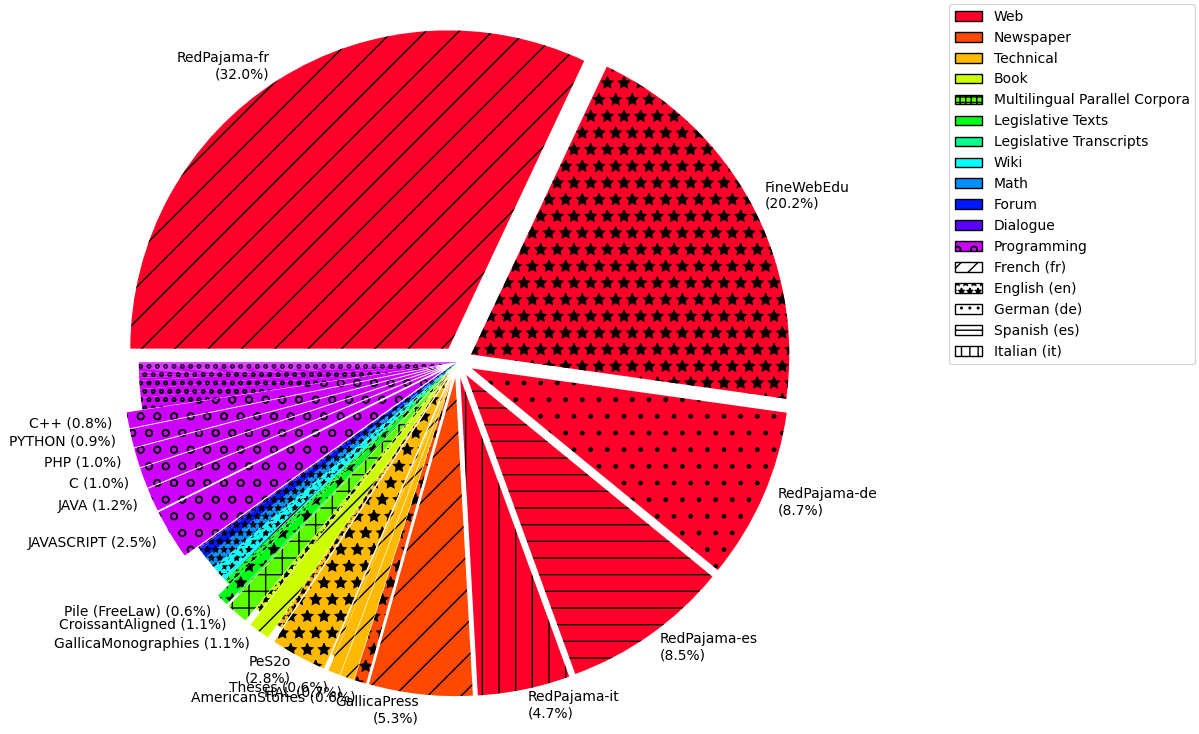
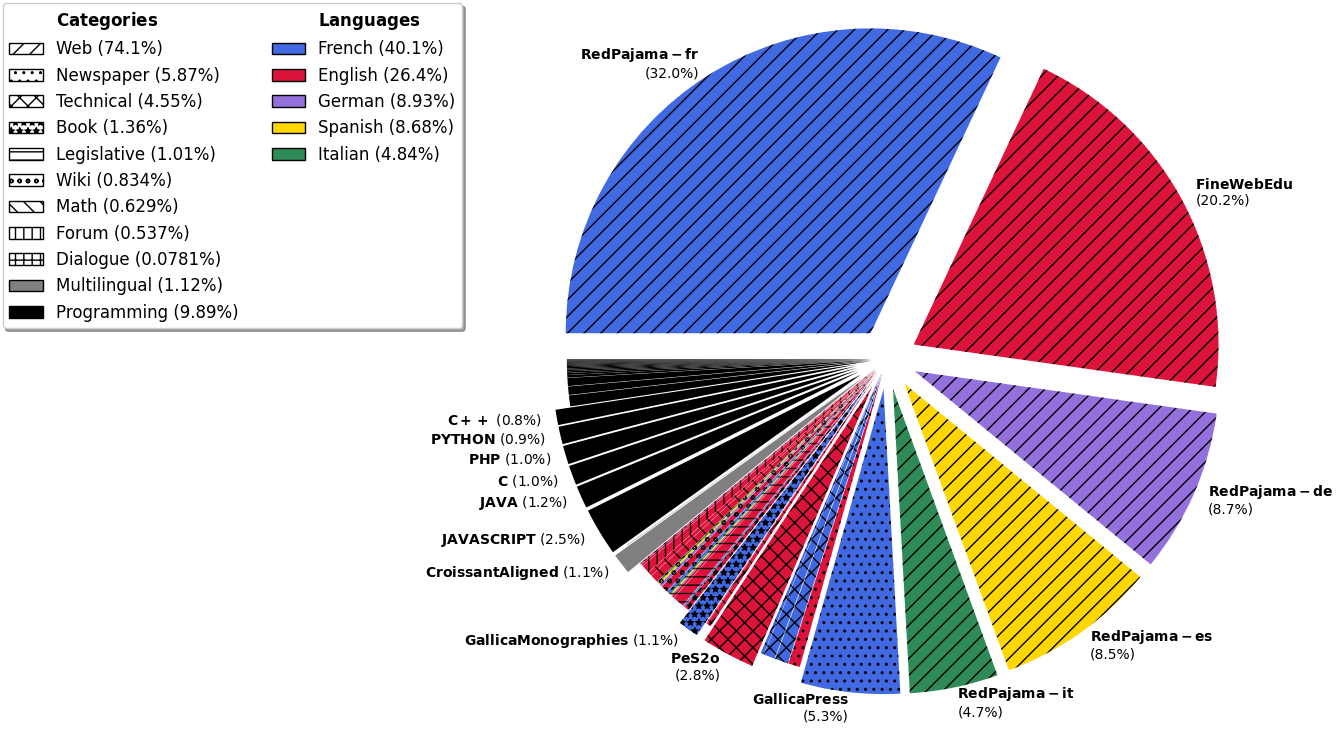
Improve pie chart of dataset composition

diff --git a/assets/hugging_face/generate_dataset_table.py b/assets/hugging_face/generate_dataset_table.py
@@ -12,6 +12,8 @@ _parent_folder = os.path.dirname(os.path.dirname(os.path.dirname(os.path.realpat
 _stats_filename = os.path.join(_parent_folder, "assets", "stats_datasets.csv")
 _stats_filename_detailed = os.path.join(_parent_folder, "assets", "stats_datasets_detailed.csv")
 
+USE_HATCH_FOR_CATEGORIES = True
+
 _web_datasets = ["RedPajama", "FineWebEdu"]
 
 _meta_datasets = [
@@ -467,12 +469,14 @@ if __name__ == "__main__":
 
     def key_category(category, df):
         if "code" in category.lower() or "programming" in category.lower():
+            return 1
+        if "multilingual" in category.lower():
             return 0
         num_tokens = df[df["category"] == category]["B tokens"].sum()
         if category.startswith("Legislative"):
             num_tokens = sum(
                 df[df["category"] == subcat]["B tokens"].sum()
-                for subcat in ["Legislative Texts", "Legislative Transcripts"]
+                for subcat in ["Legislative Texts", "Legislative Transcripts", "Legislative"]
             )
         else:
             num_tokens = df[df["category"] == category]["B tokens"].sum()
@@ -524,17 +528,10 @@ if __name__ == "__main__":
     if True:
         # Plot pie
 
-        def more_dense_hatch(hatch):
-            if hatch in ["o"]:
-                return hatch
-            if hatch in ["-", "+"]:
-                return hatch * 3
-            return hatch * 2
-
         def format_percentage(pct):
             return f"{pct:.1f}%" if pct > min_percent_for_label else ""
 
-        hatch_styles = {
+        map_hatch = {
             "fr": "/",
             "en": "*",
             "de": ".",
@@ -542,14 +539,42 @@ if __name__ == "__main__":
             "it": "|",
             "code": "o",
             "parallel": "+",
+            "Multilingual Parallel Corpora": "",
+            "Programming": "",
+            "Web": "/",
+            "Newspaper": ".",
+            "Technical": "x",
+            "Book": "*",
+            "Legislative": "-",
+            "Legislative Texts": "-",
+            "Legislative Transcripts": "-",
+            "Wiki": "o",
+            "Math": "\\",
+            "Forum": "|",
+            "Dialogue": "+",
         }
 
-        min_percent_for_label = 0.6
+        map_colors = {
+            "fr": "royalblue",  # "mediumblue", # "blue",
+            "en": "crimson",  # "red",
+            "de": "mediumpurple",  # "purple",
+            "es": "gold",  # "orange",
+            "it": "seagreen",  # "olive", # "green",
+            "code": "black",  # "gray",
+            "parallel": "gray",  # "pink",
+        }
+
+        min_percent_for_label = 0.8
 
         categories = [c for c in categories if c]
         categories = sorted(categories, key=lambda x: key_category(x, df))
+        for i, c in enumerate(categories):
+            if c.startswith("Legislative"):
+                categories[i] = "Legislative"
+        categories = list(dict.fromkeys(categories))  # Remove duplicates without resorting
         num_colors = len(categories)
         rainbow_colors = [plt.cm.gist_rainbow(i / num_colors) for i in range(num_colors)]
+        languages = [k for k in map_colors.keys() if len(k) == 2]
         # rainbow_colors_1 = rainbow_colors[: len(rainbow_colors) // 2]
         # rainbow_colors_2 = rainbow_colors[len(rainbow_colors) // 2 :]
         # rainbow_colors = [color for pair in zip(rainbow_colors_1, rainbow_colors_2) for color in pair]
@@ -559,8 +584,17 @@ if __name__ == "__main__":
             pie_labels = []
             pie_colors = []
             pie_hatches = []
+            pie_categories = []
+            pie_languages = []
+
+            legend_categories = {}
+            legend_languages = {}
+            count_per_category = {}
+            count_per_language = {}
             for _, row in df.iterrows():
                 category = row["category"]
+                if category.startswith("Legislative"):
+                    category = "Legislative"
                 language = to_generic_language(row["language"], parallel=True)
                 subset = row["name"]
                 if language == "code":
@@ -570,43 +604,54 @@ if __name__ == "__main__":
                 if subset == "RedPajama":
                     subset += f"-{row['language']}"
                 pie_values.append(row[STAT_NAME])
+                pie_categories.append(category)
+                pie_languages.append(language)
                 pie_labels.append(subset)
-                pie_colors.append(rainbow_colors[categories.index(category)])
-                pie_hatches.append(hatch_styles.get(language, ""))
+                pie_colors.append(
+                    map_colors.get(language, "black")
+                    if USE_HATCH_FOR_CATEGORIES
+                    else rainbow_colors[categories.index(category)]
+                )
+                pie_hatches.append(map_hatch.get(category if USE_HATCH_FOR_CATEGORIES else language, "") * 2)
+                count_per_category[category] = count_per_category.get(category, 0) + row[STAT_NAME]
+                count_per_language[language] = count_per_language.get(language, 0) + row[STAT_NAME]
+                rec_hatch = plt.Rectangle((0, 0), 1, 1, fc="white", hatch=pie_hatches[-1], edgecolor="black")
+                rec_color = plt.Rectangle((0, 0), 1, 1, fc=pie_colors[-1], hatch="", edgecolor="black")
+                rec_hatch_and_color = plt.Rectangle(
+                    (0, 0), 1, 1, fc=pie_colors[-1], hatch=pie_hatches[-1], edgecolor="black"
+                )
+                if len(language) == 2:
+                    legend_categories[category] = rec_hatch
+                    legend_languages[language] = rec_color
+                else:
+                    legend_categories[category] = rec_hatch_and_color
 
             new_labels = []
             for lab, v in zip(pie_labels, pie_values):
                 percentage = v / sum(pie_values) * 100
                 sep = "\n" if percentage > 2.6 else " "
-                label = f"{lab}{sep}({percentage:.1f}%)"
+                label = f"$\\bf{{{lab}}}${sep}({percentage:.1f}%)"
                 new_labels.append(label)
             pie_labels = new_labels
 
-            pie_data = list(
-                zip(
-                    pie_values,
-                    pie_labels,
-                    pie_colors,
-                    pie_hatches,
-                )
-            )
+            pie_data = list(zip(pie_values, pie_labels, pie_colors, pie_hatches, pie_categories, pie_languages))
 
             def get_counts(x):
                 value_subset = x[0]
                 value_dataset = sum(p[0] for p in pie_data if p[1] == x[1])
                 value_category = sum(p[0] for p in pie_data if p[2] == x[2])
                 value_language = sum(p[0] for p in pie_data if p[3] == x[3])
-                # if x[3] == hatch_styles["code"]:
+                # if x[3] == map_hatch["code"]:
                 #     value_category = 0
-                # if x[3] == hatch_styles["parallel"]:
+                # if x[3] == map_hatch["parallel"]:
                 #     value_category = 1
-                value_category = -rainbow_colors.index(x[2])
-                value_language = -list(hatch_styles.values()).index(x[3])
+                value_category = -categories.index(x[4])
+                value_language = -list(map_hatch.keys()).index(x[5])
                 return (value_category, value_language, value_dataset, value_subset)
 
             pie_data = sorted(pie_data, key=get_counts, reverse=True)
 
-            pie_values, pie_labels, pie_colors, pie_hatches = zip(*pie_data)
+            pie_values, pie_labels, pie_colors, pie_hatches, pie_categories, pie_languages = zip(*pie_data)
             pie_labels = list(pie_labels)
             pie_hatches = list(pie_hatches)
 
@@ -615,7 +660,7 @@ if __name__ == "__main__":
             for i, v in enumerate(pie_values):
                 if v < min_percent_for_label:
                     pie_labels[i] = ""  # "other"
-                    pie_hatches[i] = pie_hatches[i] * 2  # more_dense_hatch(pie_hatches[i])
+                    # pie_hatches[i] = pie_hatches[i] * 2
             # Remove duplicates
             reference = None
             for i, v in enumerate(pie_labels):
@@ -635,33 +680,41 @@ if __name__ == "__main__":
                 startangle=90 * 2,
                 counterclock=False,
                 labeldistance=1.05,
-                explode=[0.05 if lab else 0 for lab in pie_labels],
+                explode=[0.1 if lab else 0.05 for lab in pie_labels],
             )
             plt.axis("equal")
 
             # Custom legend
-            labels, hatches, colors = [], [], []
-            labels += categories
-            hatches += ["" for i in categories]
-            colors += rainbow_colors
-            labels += list(hatch_styles.keys())
-            hatches += list(hatch_styles.values())
-            colors += ["white"] * len(hatch_styles)
-            hatches[labels.index("Multilingual Parallel Corpora")] = hatch_styles["parallel"]
-            hatches[labels.index("Programming")] = hatch_styles["code"]
-            for label in "code", "parallel":
-                i = labels.index(label)
-                labels.pop(i)
-                hatches.pop(i)
-                colors.pop(i)
-            hatches = [more_dense_hatch(c) for c in hatches]
-            labels = [format_language(lab) for lab in labels]
+            def format_category_for_pie(category):
+                cat = category.replace(" Parallel Corpora", "")
+                percent = count_per_category[category] / sum(count_per_category.values()) * 100
+                return f"{cat} ({precision_at_least(percent, 0)}%)"
 
-            legend = [
-                plt.Rectangle((0, 0), 1, 1, fc=colors[i], hatch=hatches[i], edgecolor="black")
-                for i in range(len(labels))
-            ]
-            plt.legend(legend, labels, title_fontsize="large")
-            plt.title(STAT_NAME)
+            def format_language_for_pie(language):
+                lang = format_language(language, include_lang_code=False)
+                percent = count_per_language[language] / sum(count_per_language.values()) * 100
+                return f"{lang} ({precision_at_least(percent, 0)}%)"
+
+            nothing = plt.Rectangle((0, 0), 1, 1, fc="white", edgecolor="white")
+            legend_and_labels = (
+                [(nothing, "$\\bf{Categories}$")]
+                + [(legend_categories[label], format_category_for_pie(label)) for label in categories]
+                + [(nothing, "$\\bf{Languages}$")]
+                + [(legend_languages[label], format_language_for_pie(label)) for label in languages]
+                + [(nothing, "") for i in range(len(categories) - len(languages))]
+            )
+            legend, labels = zip(*legend_and_labels)
+            plt.legend(
+                legend,
+                labels,
+                ncols=2,
+                fontsize="large",
+                # markerscale=20,
+                shadow=True,
+                # loc="upper left",
+                loc="best",
+                bbox_to_anchor=(-0.1, 0.0, 0.5, 1),
+            )
+            # plt.title(STAT_NAME)
 
         plt.show()
